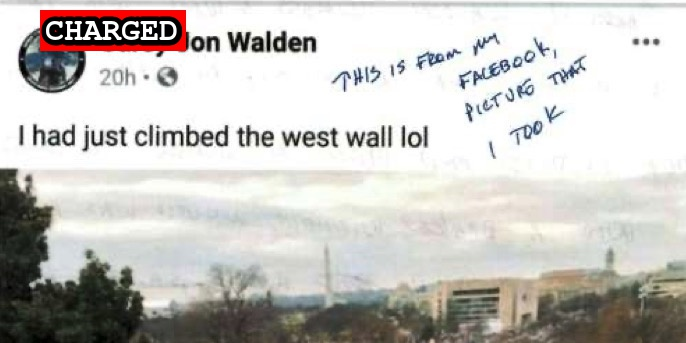
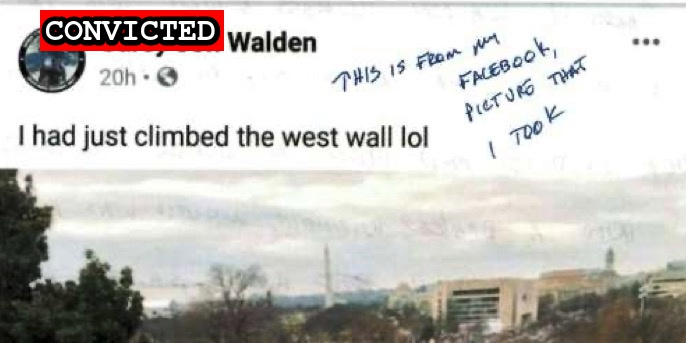
New plea deals

Changed region(s): [[0.0918, 0.0292, 0.3367, 0.1749]]

diff --git a/docs/_suspects/eliel-rosa.md b/docs/_suspects/eliel-rosa.md
@@ -34,18 +34,19 @@ published: true
 caseNumber: 1:21-cr-68
 videos:
 charges:
-  - code: 18 USC § 5104(e)(2)(G)
-    title: Parading, Demonstrating or Picketing in a Capitol Building
-    url: https://www.law.cornell.edu/uscode/text/40/5104
-    felony: false
+- code: 18 USC § 5104(e)(2)(G)
+  title: Parading, Demonstrating or Picketing in a Capitol Building
+  url: https://www.law.cornell.edu/uscode/text/40/5104
+  felony: false
 sentence:
   - 1 year probation
   - 100 hours of community service
   - $500 restitution
 ---
-
 - [News Report](https://www.kiiitv.com/article/news/local/jenny-cudd-fbi-arrested/513-fb4ff454-3bf0-4648-8983-660ec8f2601e)
 - [Statement of Facts](https://www.justice.gov/opa/page/file/1353436/download)
 - [Complaint](https://www.justice.gov/opa/page/file/1353431/download)
 - [Indictment](https://www.justice.gov/usao-dc/case-multi-defendant/file/1366061/download)
 - [Plea Agreement](https://www.justice.gov/usao-dc/case-multi-defendant/file/1419001/download)
+- [Sentencing Memo](https://extremism.gwu.edu/sites/g/files/zaxdzs2191/f/Eliel%20Rosa%20Defense%20Sentencing%20Memorandum.pdf)
+- [Judgement](https://extremism.gwu.edu/sites/g/files/zaxdzs2191/f/Eliel%20Rosa%20Judgment.pdf)

diff --git a/docs/_suspects/troy-smocks.md b/docs/_suspects/troy-smocks.md
@@ -34,18 +34,18 @@ published: true
 caseNumber: 1:21-cr-198
 videos:
 charges:
-  - code: 18 USC § 875(c)
-    title: Interstate Communication of Threats
-    url: https://www.law.cornell.edu/uscode/text/18/875
-    felony: true
+- code: 18 USC § 875(c)
+  title: Interstate Communication of Threats
+  url: https://www.law.cornell.edu/uscode/text/18/875
+  felony: true
 sentence:
   - 14 months in prison
   - 3 years probation
 ---
-
 - [News Report](https://dfw.cbslocal.com/2021/01/19/capitol-rioter-dallas-troy-smocks-plans-return-dc-inauguration-day/)
 - [DOJ Press Release](https://www.justice.gov/usao-dc/pr/texas-man-arrested-and-charged-making-threats-regarding-events-us-capitol)
 - [Complaint](https://www.justice.gov/opa/page/file/1355891/download)
 - [Statement of Facts](https://www.justice.gov/usao-dc/case-multi-defendant/file/1438316/download)
 - [Indictment](https://www.justice.gov/usao-dc/case-multi-defendant/file/1377816/download)
 - [Plea Agreement](https://www.justice.gov/usao-dc/case-multi-defendant/file/1438311/download)
+- [Sentencing Memo](https://extremism.gwu.edu/sites/g/files/zaxdzs2191/f/Troy%20Smocks%20Defense%20Sentencing%20Memorandum.pdf)

diff --git a/docs/_suspects/thomas-vinson.md b/docs/_suspects/thomas-vinson.md
@@ -34,18 +34,19 @@ published: true
 caseNumber: 1:21-cr-355
 videos:
 charges:
-  - code: 18 USC § 5104(e)(2)(G)
-    title: Parading, Demonstrating or Picketing in a Capitol Building
-    url: https://www.law.cornell.edu/uscode/text/40/5104
-    felony: false
+- code: 18 USC § 5104(e)(2)(G)
+  title: Parading, Demonstrating or Picketing in a Capitol Building
+  url: https://www.law.cornell.edu/uscode/text/40/5104
+  felony: false
 sentence:
   - 5 years probation
   - $5,000 fine
   - 120 hours community service
   - $500 restitution
 ---
-
 - [News Report](https://www.kentucky.com/news/local/crime/article249457150.)
 - [FBI Statement (Twitter)](https://twitter.com/FBILouisville/status/1364284639385378825)
 - [Statement of Facts](https://www.justice.gov/usao-dc/case-multi-defendant/file/1418041/download)
 - [Plea Agreement](https://www.justice.gov/usao-dc/case-multi-defendant/file/1418036/download)
+- [Information](https://extremism.gwu.edu/sites/g/files/zaxdzs2191/f/Lori%20Vinson%20and%20Thomas%20Vinson%20Information.pdf)
+- [Sentencing Memo](https://extremism.gwu.edu/sites/g/files/zaxdzs2191/f/Thomas%20Vinson%20Defense%20Sentencing%20Memorandum.pdf)

diff --git a/docs/_suspects/lori-vinson.md b/docs/_suspects/lori-vinson.md
@@ -34,19 +34,19 @@ published: true
 caseNumber: 1:21-cr-355
 videos:
 charges:
-  - code: 18 USC § 5104(e)(2)(G)
-    title: Parading, Demonstrating or Picketing in a Capitol Building
-    url: https://www.law.cornell.edu/uscode/text/40/5104
-    felony: false
+- code: 18 USC § 5104(e)(2)(G)
+  title: Parading, Demonstrating or Picketing in a Capitol Building
+  url: https://www.law.cornell.edu/uscode/text/40/5104
+  felony: false
 sentence:
   - 5 years probation
   - $5,000 fine
   - 120 hours community service
   - $500 restitution
 ---
-
 - [News Report](https://www.kentucky.com/news/local/crime/article249457150.html)
 - [FBI Statement (Twitter)](https://twitter.com/FBILouisville/status/1364284639385378825)
 - [Statement of Facts](https://www.justice.gov/usao-dc/case-multi-defendant/file/1418031/download)
 - [Information](https://www.justice.gov/usao-dc/case-multi-defendant/file/1415381/download)
 - [Plea Agreement](https://www.justice.gov/usao-dc/case-multi-defendant/file/1418026/download)
+- [Sentencing Memo](https://extremism.gwu.edu/sites/g/files/zaxdzs2191/f/Lori%20Vinson%20Defense%20Sentencing%20Memorandum.pdf)

diff --git a/docs/_suspects/carey-walden.md b/docs/_suspects/carey-walden.md
@@ -4,15 +4,15 @@ lastName: Walden
 hashtag: CareyWalden
 aka:
 residence: Missouri
-status: Charged
+status: Convicted
 date: 2021-05-21
 charged: 2021-05-21
 indicted:
-convicted: 
+convicted: 2021-10-26
 sentenced: 
 dismissed: 
 deceased:
-plea_hearing:
+plea_hearing: 2021-10-26
 sentencing:
 age: 47
 occupation:
@@ -34,8 +34,14 @@ published: true
 caseNumber: 1:21-mj-004
 videos:
 charges:
+- code: 18 USC § 5104(e)(2)(G)
+  title: Parading, demonstrating or picketing in a Capitol building
+  url: https://www.law.cornell.edu/uscode/text/40/5104
+  felony: false
 sentence:
 ---
 - [News Report](https://www.kansascity.com/news/local/crime/article251913838.html)
 - [Complaint](https://www.justice.gov/usao-dc/case-multi-defendant/file/1401806/download)
 - [Statement of Facts](https://www.justice.gov/usao-dc/case-multi-defendant/file/1401811/download)
+- [Information](https://extremism.gwu.edu/sites/g/files/zaxdzs2191/f/Carey%20Jon%20Walden%20Information.pdf)
+- [Plea Agreement](https://extremism.gwu.edu/sites/g/files/zaxdzs2191/f/Carey%20Jon%20Walden%20Plea%20Agreement.pdf)

diff --git a/docs/_suspects/mark-leffingwell.md b/docs/_suspects/mark-leffingwell.md
@@ -4,15 +4,15 @@ lastName: Leffingwell
 hashtag: MarkLeffingwell
 aka:
 residence: Washington
-status: Indicted
+status: Convicted
 date: 2021-01-07
 charged: 2021-01-07
 indicted: 2021-01-11
-convicted:
+convicted: 2021-10-26
 sentenced:
 dismissed:
 deceased:
-plea_hearing: 2021-10-25
+plea_hearing: 2021-10-26
 sentencing:
 age: 51
 occupation:
@@ -34,6 +34,10 @@ published: true
 caseNumber: 1:21-cr-5
 videos:
 charges:
+  - code: 18 USC § 111(a)(1) and (b)
+    title: Assaulting, resisting, or impeding certain officers or employees (using a deadly or dangerous weapon)
+    url: https://www.law.cornell.edu/uscode/text/18/111
+    felony: true
 sentence:
 ---
 
